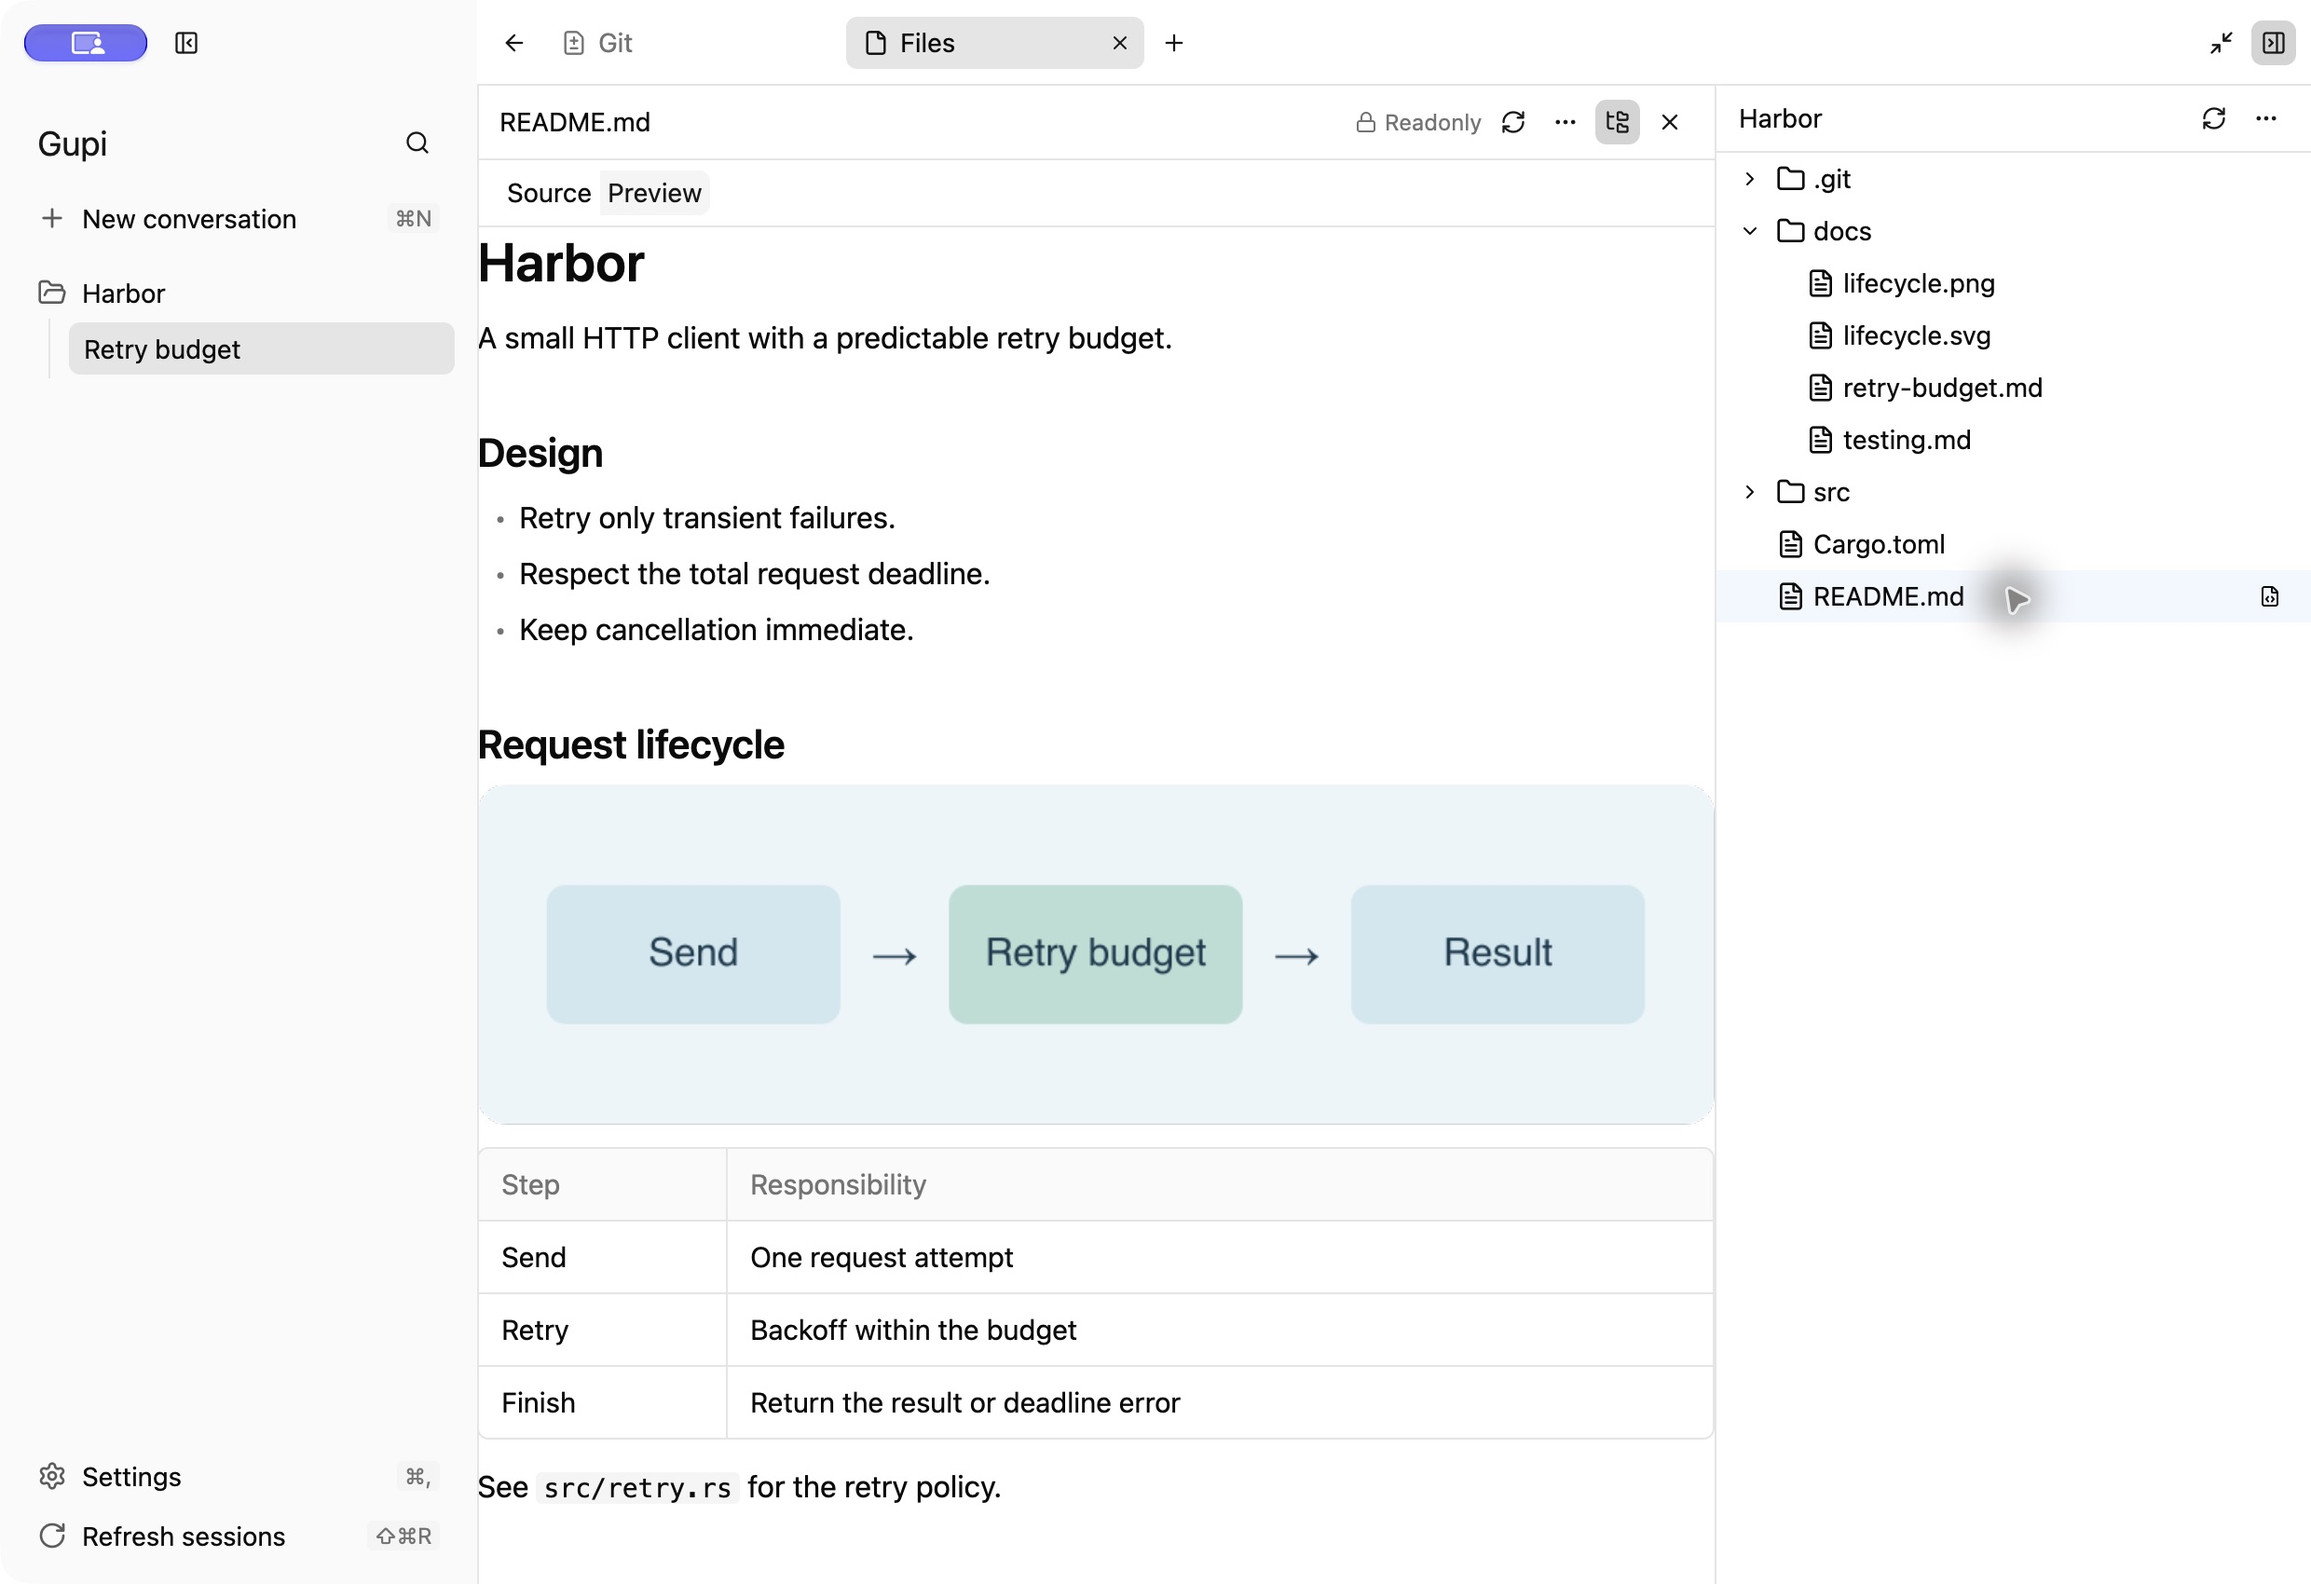
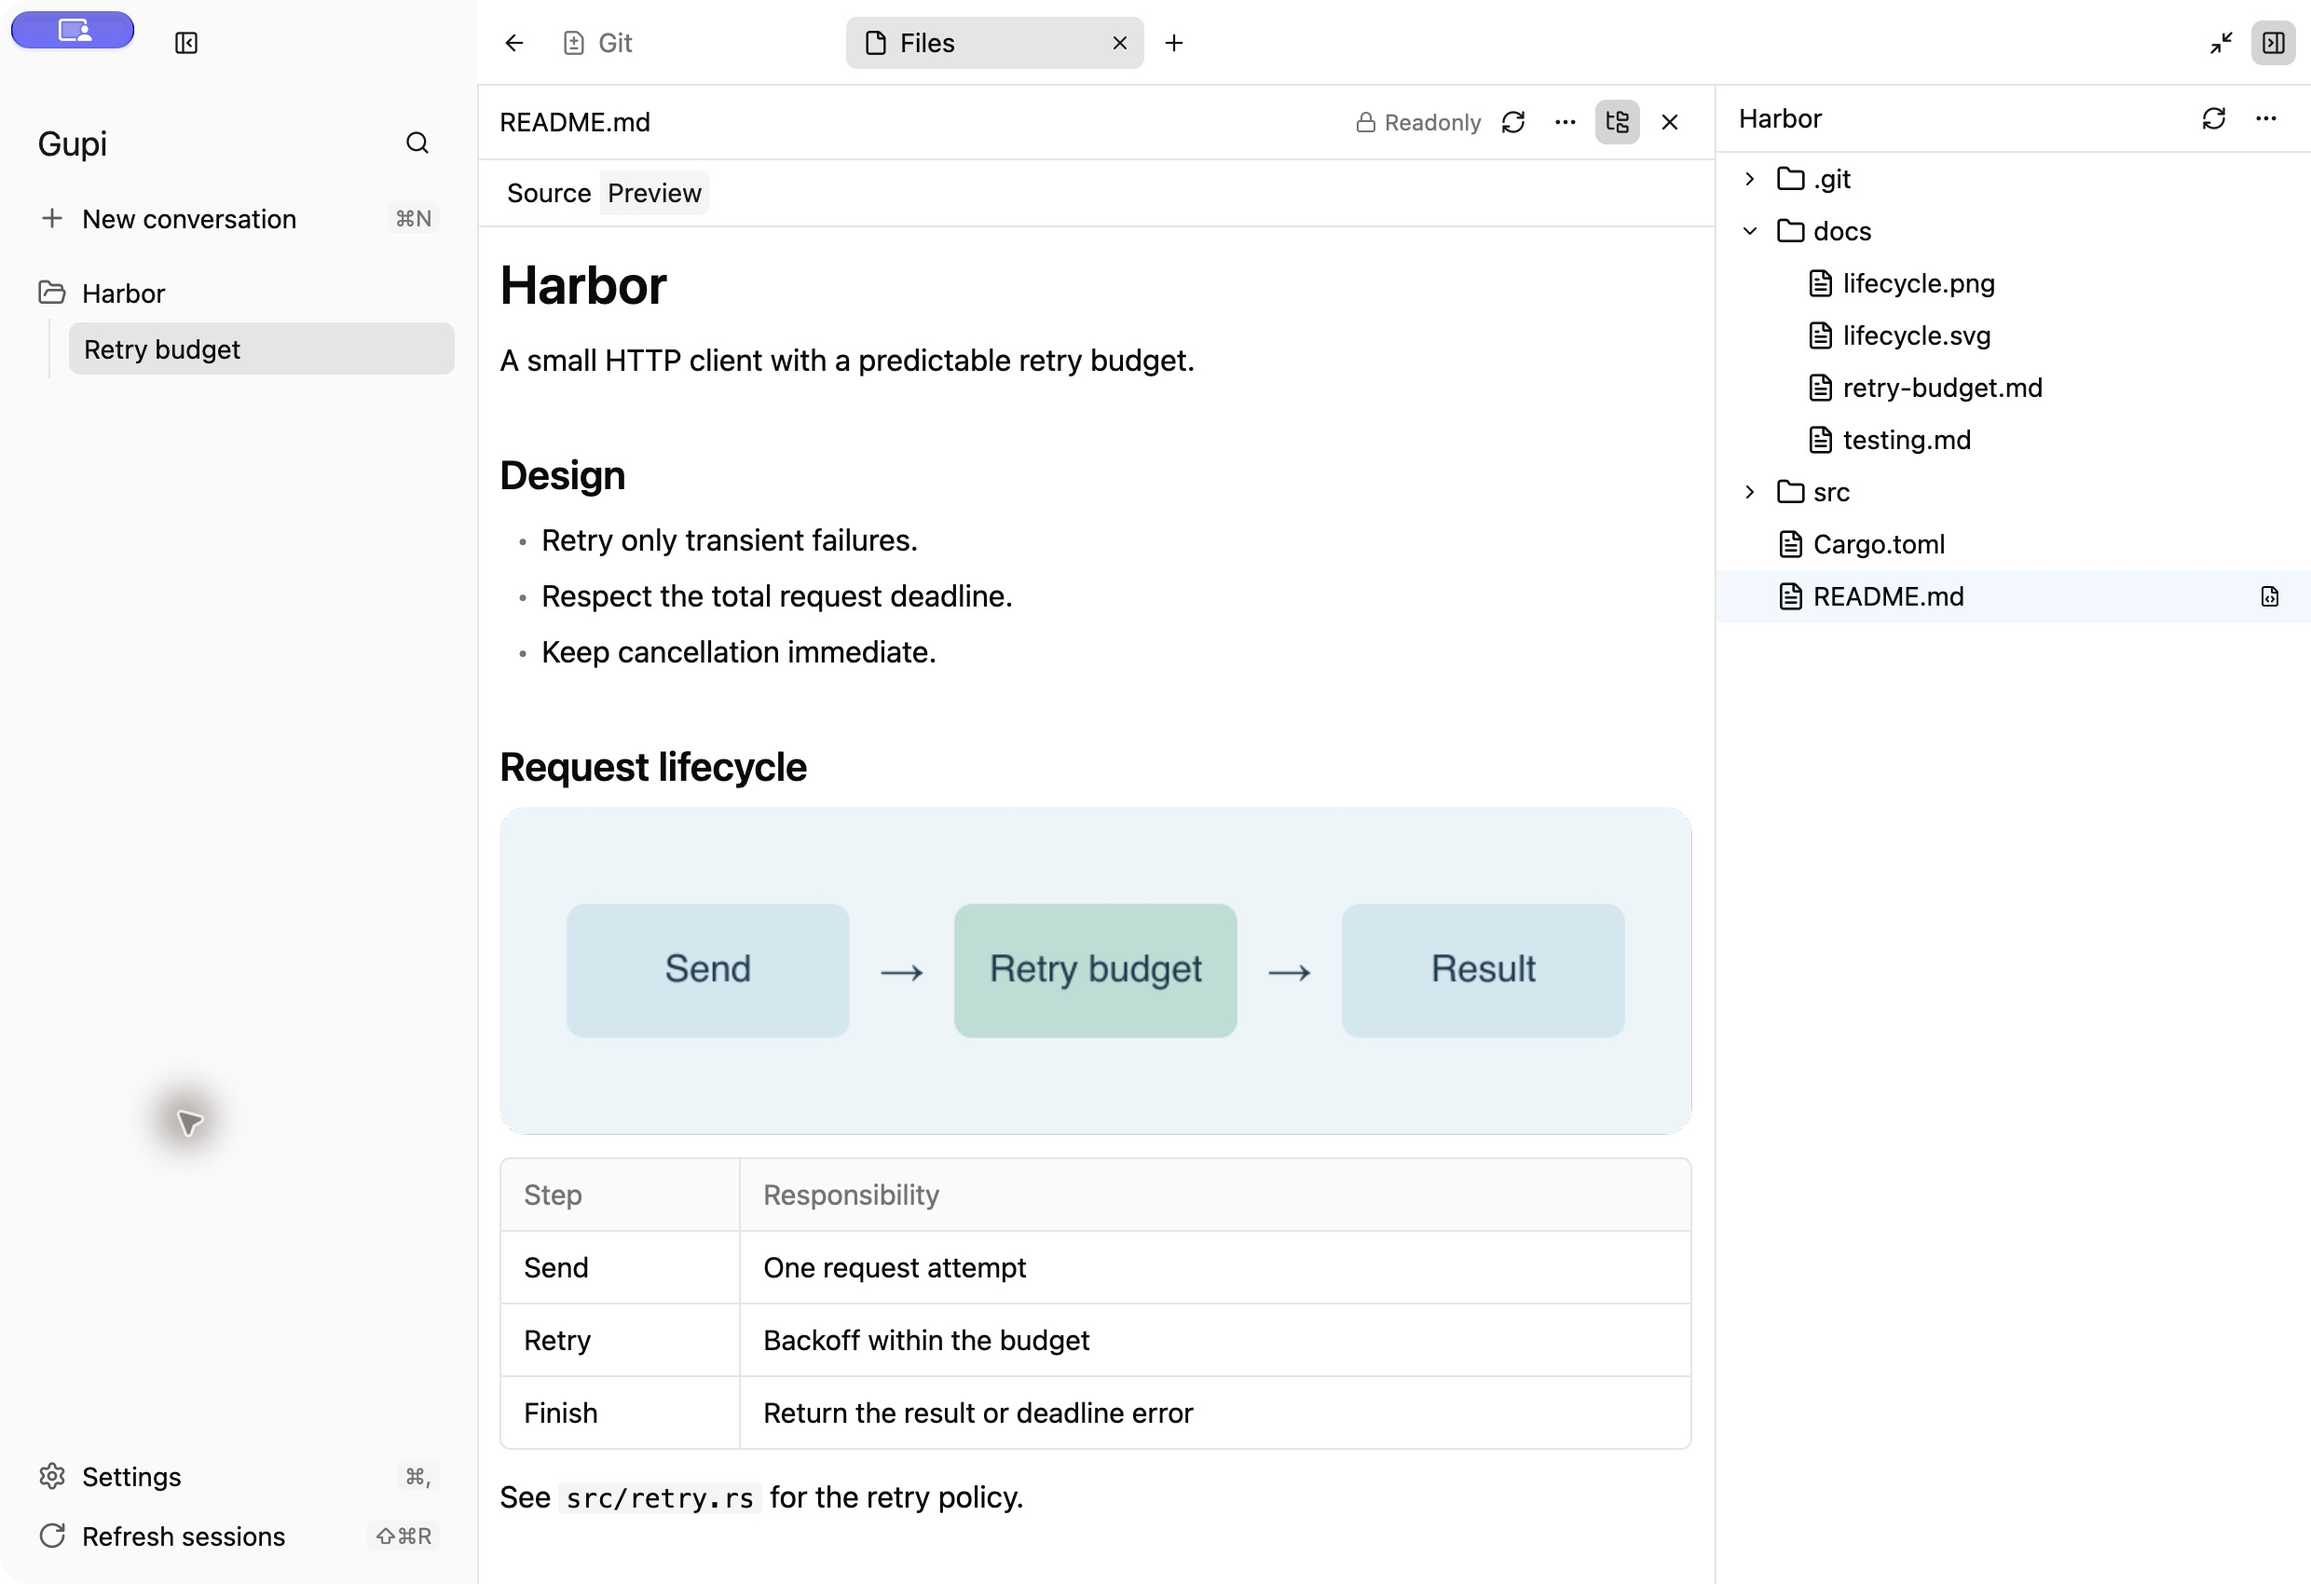
docs: recapture Files previews with content padding

diff --git a/docs/screenshots/README.md b/docs/screenshots/README.md
@@ -14,9 +14,13 @@ These are captures of Gupi's actual macOS UI. Sample answers illustrate the inte
 | `pi-settings-en.jpg`, `pi-settings-zh-CN.jpg` | Project-scoped conversation settings, Global sources and ordered model patterns / 项目作用域对话设置、全局来源与有序模型范围 |
 | `packages-en.jpg`, `packages-zh-CN.jpg` | npm search results and published package details before installation / npm 搜索结果与安装前的包发布详情 |
 
-Workspace/history/files/Git baseline: source commit `bf36bc9` (Cargo version 0.1.10, before the 0.1.11 release), Pi 1.4.0, macOS 27.0.1 arm64, 2026-10-25. All eight captures use the same local build, Default Light theme and 1240 × 850-point window, producing 2480 × 1700-pixel JPEGs. The isolated Gallery contains an authored Harbor project, a real disposable Git repository and authored Pi-format demonstration history. UI labels, conversation text and the unsent draft are paired in English and Chinese; project files are the same English example in both. Files and Git use the maximized workspace, with both tabs open. No model request was sent; displayed model selection and zero usage are demonstration state, not model output or a benchmark. Each capture was inspected for clipped controls/content, leftover menus, credentials, personal paths and private data. The Gallery was quit and its disposable data removed afterward. Capture-tool JPEG bytes are stored directly, without UI retouching or re-encoding.
+Workspace/history/Git baseline: source commit `bf36bc9` (Cargo version 0.1.10, before the 0.1.11 release), Pi 1.4.0, macOS 27.0.1 arm64, 2026-10-25. These six captures retain the original images committed in `083c30c`. Files was recaptured from source commit `50e31a6`, including the Markdown preview padding fix, with the same Pi version, platform, Default Light theme and 1240 × 850-point window. All eight JPEGs are 2480 × 1700 pixels.
 
-工作区／历史／文件／Git 拍摄基线：源码 `bf36bc9`（Cargo 版本 0.1.10，0.1.11 发版前），Pi 1.4.0，macOS 27.0.1 arm64，2026-10-25。八张图使用同一本地构建、默认浅色主题及 1240 × 850 点窗口，输出 2480 × 1700 像素 JPEG。隔离 Gallery 中的 Harbor 项目、真实临时 Git 仓库和 Pi 格式演示历史均为自编内容；界面、会话与未发送草稿中英文对应，项目文件沿用相同英文示例。文件和 Git 图使用最大化工作区，同时保留两个标签。没有发送模型请求，模型选择与零用量仅为演示状态。逐张检查了控件／内容边界、菜单残留、凭据、个人路径及私有内容，拍摄后已退出 Gallery 并清理隔离数据；直接保存工具返回的 JPEG，未修饰界面或重新编码。
+The isolated Gallery uses an authored Harbor project, a disposable Git repository and authored Pi-format demonstration history. UI labels, conversation text and the unsent draft are paired in English and Chinese; project files remain the same English example. Files and Git use the maximized workspace with both tabs open. No model request was sent; displayed model selection and zero usage are demonstration state. Native pointer captures are retained. The Gallery was quit after capture. Capture-tool JPEG bytes are stored directly without UI retouching or re-encoding.
+
+工作区／历史／Git 基线：源码 `bf36bc9`（Cargo 版本 0.1.10，0.1.11 发版前），Pi 1.4.0，macOS 27.0.1 arm64，2026-10-25；这六张保留 `083c30c` 中的原图。Files 两张使用包含 Markdown 预览内边距修复的源码 `50e31a6` 重拍，Pi 版本、平台、默认浅色主题及 1240 × 850 点窗口保持一致，八张 JPEG 均为 2480 × 1700 像素。
+
+隔离 Gallery 中的 Harbor 项目、临时 Git 仓库和 Pi 格式演示历史均为自编内容；界面、会话与未发送草稿中英文对应，项目文件沿用同一英文示例。文件与 Git 图使用最大化工作区，同时保留两个标签。没有发送模型请求，模型选择与零用量仅为演示状态；保留原生指针。拍摄后已退出 Gallery，直接保存工具返回的 JPEG，未修饰界面或重新编码。
 
 Historical appearance baseline (`settings-*` only): Gupi 0.1.0, source commit `3efcdca`, Pi 0.99.1, macOS arm64, 2026-09-30; sample project and authored demonstration sessions.
 
